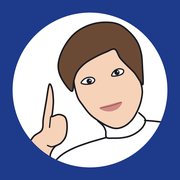
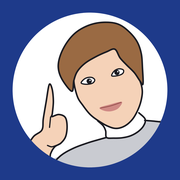
アイコンをC案（グレーのセーター＋明るい茶髪）に変更
Claude-Session: https://claude.ai/code/session_01GkBH6xXLbGBBmqMp44NaEA

Changed region(s): [[0.3056, 0.1111, 0.8056, 0.5], [0.3056, 0.6667, 0.8889, 0.9444]]

diff --git a/sw.js b/sw.js
@@ -1,5 +1,5 @@
 // オフライン用。オンラインのときは常に最新を取りに行き（network-first）、つながらないときはキャッシュを使う。
-const CACHE = 'oretachi-v3';
+const CACHE = 'oretachi-v4';
 const SHELL = [
   './', 'index.html', 'style.css', 'app.js', 'manifest.webmanifest',
   'icons/icon-192.png', 'icons/icon-512.png', 'icons/apple-touch-icon.png', 'icons/favicon-32.png',
